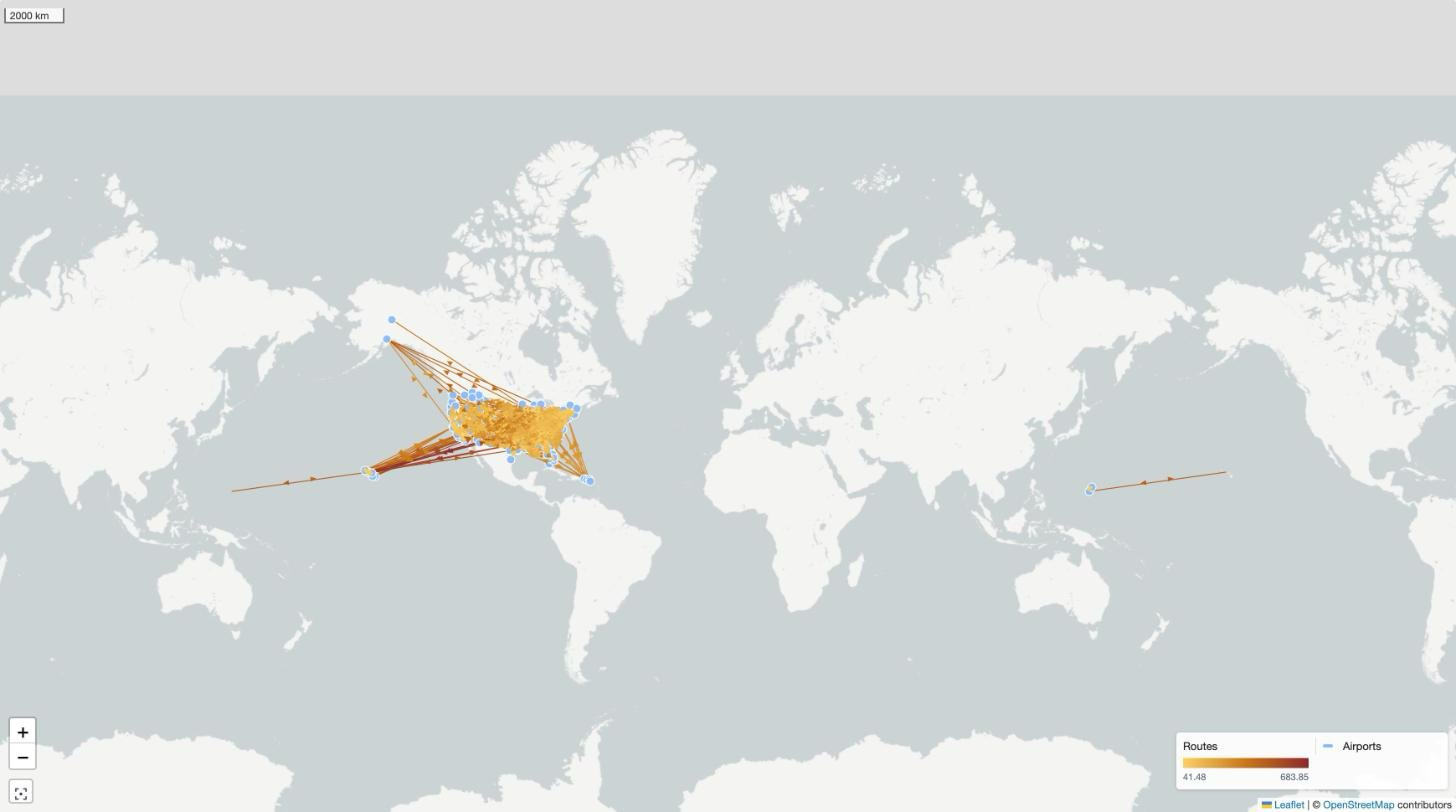
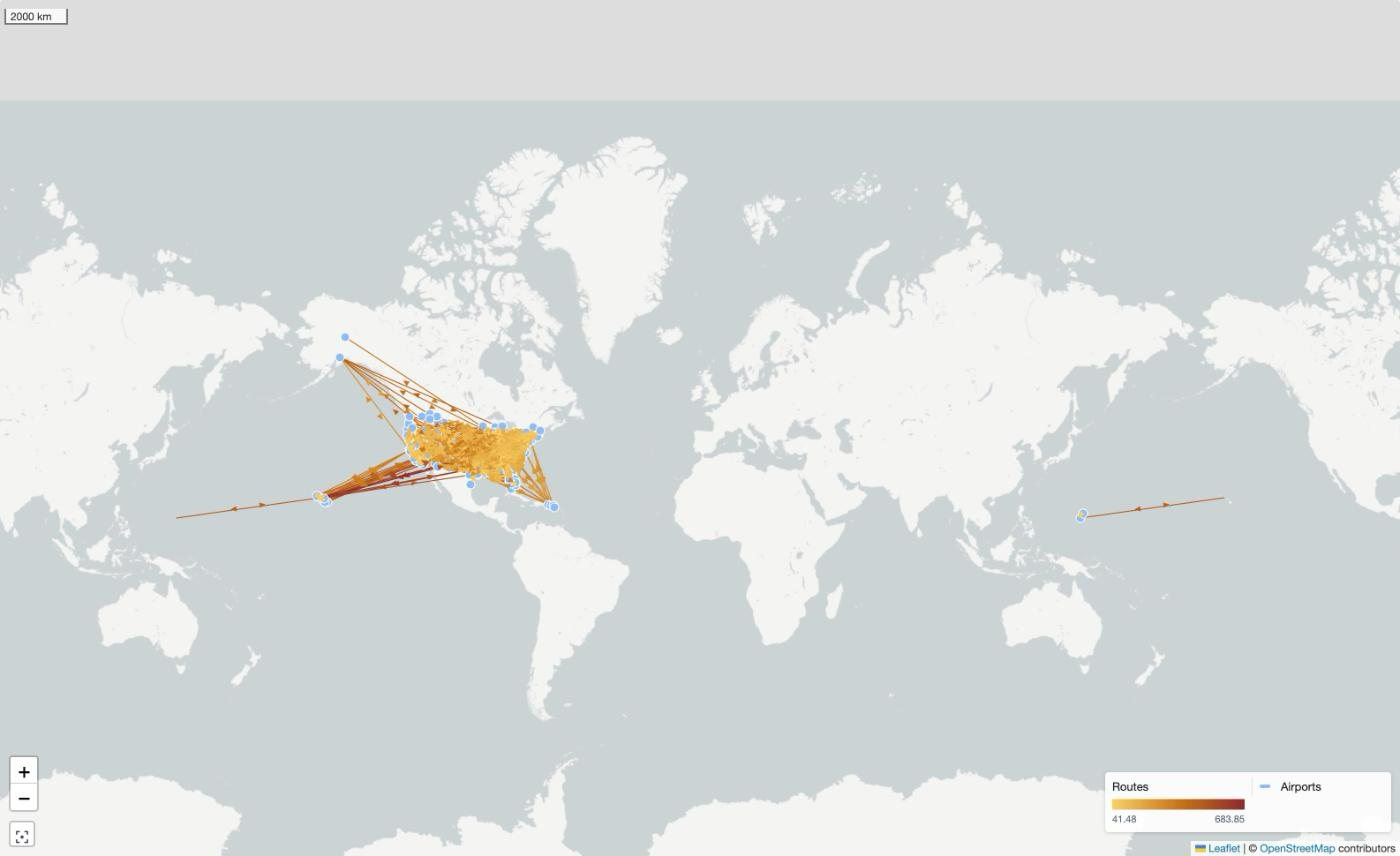
Databricks captures of the latest builds of all 12 aviation apps and all 7 MetroCycle tabs; drop superseded images

diff --git a/index.html b/index.html
@@ -131,31 +131,31 @@ figure { margin: 0; display: flex; flex-direction: column; gap: 8px; min-width: 
 <script>
 const DBX = (id) => "https://" + id + "-8259562314487447.gcp.databricksapps.com";
 const APPS = [
-  { name: "Route Overview", dshot: "route-overview-v10", dapp: "route-overview-v10", short: "Overview", g: "route-overview-v11", dproof: "Verified with open items · 93 of 95 checks passed, 0 failed, 2 not checkable · coverage 87% · 10 random routes · save rehearsals passed", f: "f-route-overview.jpg", dbx: "route-overview-v11",
+  { name: "Route Overview", dshot: "route-overview-v11", dapp: "route-overview-v11", short: "Overview", g: "route-overview-v11", dproof: "Verified with open items · 93 of 95 checks passed, 0 failed, 2 not checkable · coverage 87% · 10 random routes · save rehearsals passed", f: "f-route-overview.jpg", dbx: "route-overview-v11",
     proof: "Verified with open items · 3 runs, 44 random routes · 94 checks, 0 failed · coverage 87%", notes: ["Metric rows with red/green rules, weekly flight volume and the embedded route map", "Alert detail values proven with an alert selected"] },
-  { name: "Route Carriers", dshot: "route-carriers-v11", dapp: "route-carriers-v11", short: "Carriers", g: "route-carriers-v15", dproof: "Verified with open items · 71 of 72 checks passed, 0 failed · coverage 95% · 10 random routes · save rehearsals passed", f: "f-route-carriers.jpg", dbx: "route-carriers-v15",
+  { name: "Route Carriers", dshot: "route-carriers-v14", dapp: "route-carriers-v14", short: "Carriers", g: "route-carriers-v15", dproof: "Verified with open items · 71 of 72 checks passed, 0 failed · coverage 95% · 10 random routes · save rehearsals passed", f: "f-route-carriers.jpg", dbx: "route-carriers-v15",
     proof: "Verified with open items · 0 failed · coverage 95% (37 of 39 widgets)", notes: ["Carrier colours, line gaps, stack order and the “No Value” bar match Foundry", "Carrier Stats is a pivot grid: Endeavor 657 / 1.80 / 125.38 / 1.03"] },
-  { name: "Route Performance", dshot: "route-performance-v11", dapp: "route-performance-v11", short: "Performance", g: "route-performance-v13", dproof: "Verified with open items · 95 of 96 checks passed, 0 failed · coverage 97% · 10 random routes · save rehearsals passed", f: "f-route-performance.jpg", dbx: "route-performance-v13",
+  { name: "Route Performance", dshot: "route-performance-v13", dapp: "route-performance-v13", short: "Performance", g: "route-performance-v13", dproof: "Verified with open items · 95 of 96 checks passed, 0 failed · coverage 97% · 10 random routes · save rehearsals passed", f: "f-route-performance.jpg", dbx: "route-performance-v13",
     proof: "Verified with open items · 11 routes per run · 94 checks, 0 failed · coverage 91%", notes: ["Cohorts 75 vs 919 flights, 0% vs 0.33%, 131.3 vs 128.1 min, 13% vs 17% delayed", "Cohort date filters, Reverse and all chart layers working"] },
-  { name: "Route Alert Inbox", dshot: "route-alert-inbox-v12", dapp: "route-alert-inbox-v12", short: "Alert Inbox", g: "route-alert-inbox-v14", dproof: "Verified with open items · 23 of 23 checks passed · coverage 100% · save rehearsals passed", f: "f-route-alert-inbox.jpg", dbx: "route-alert-inbox-v14",
+  { name: "Route Alert Inbox", dshot: "route-alert-inbox-v14", dapp: "route-alert-inbox-v14", short: "Alert Inbox", g: "route-alert-inbox-v14", dproof: "Verified with open items · 23 of 23 checks passed · coverage 100% · save rehearsals passed", f: "f-route-alert-inbox.jpg", dbx: "route-alert-inbox-v14",
     proof: "Verified with open items · 37 checks, 0 failed · coverage 100% (route detail panel and alert tags now checked)", notes: ["Route detail panel: Foundry's Object View, read from Foundry and drawn with its properties and links", "Alert tags under each route, welcome text and filters checked against Foundry"] },
-  { name: "Ticket with Comments", dshot: "ticket-route-alert-v10", dapp: "ticket-route-alert-v10", short: "Ticket", g: "ticket-route-alert-v11", dproof: "Verified with open items · 31 of 32 checks passed, 0 failed · coverage 85% · 3 of 3 save rehearsals passed (comments, callouts)", f: "f-ticket.jpg", dbx: "ticket-route-alert-v11",
+  { name: "Ticket with Comments", dshot: "ticket-route-alert-v11", dapp: "ticket-route-alert-v11", short: "Ticket", g: "ticket-route-alert-v11", dproof: "Verified with open items · 31 of 32 checks passed, 0 failed · coverage 85% · 3 of 3 save rehearsals passed (comments, callouts)", f: "f-ticket.jpg", dbx: "ticket-route-alert-v11",
     proof: "Verified with open items · 3 runs · 31 checks, 0 failed · coverage 85% · comment and callout saves rehearsed", notes: ["Comments write through an edits table, credited to the signed-in user", "Built straight from the tools, no hand-written queries"] },
-  { name: "Map and Gantt Charts", dshot: "map-and-gantt-v10", dapp: "map-and-gantt-v10", short: "Map & Gantt", g: "map-and-gantt-v11", dproof: "Verified with open items · 46 of 47 checks passed, 0 failed · coverage 94% · 10 random aircraft", f: "f-map-and-gantt.jpg", dbx: "map-and-gantt-v11",
+  { name: "Map and Gantt Charts", dshot: "map-and-gantt-v11", dapp: "map-and-gantt-v11", short: "Map & Gantt", g: "map-and-gantt-v11", dproof: "Verified with open items · 46 of 47 checks passed, 0 failed · coverage 94% · 10 random aircraft", f: "f-map-and-gantt.jpg", dbx: "map-and-gantt-v11",
     proof: "Verified with open items · 0 failed · coverage 94% (15 of 16 widgets)", notes: ["Opens on the saved Dec 20–21 window with Foundry’s six Gantt bars", "Flight history table sorted and paged"] },
-  { name: "Flights Map", dshot: "flights-map-v11", dapp: "flights-map-v11", short: "Flights Map", g: "flights-map-v12", dproof: "Verified with open items · 18 of 19 checks passed, 0 failed · coverage 93%", f: "f-flights-map.jpg", dbx: "flights-map-v12",
+  { name: "Flights Map", dshot: "flights-map-v12", dapp: "flights-map-v12", short: "Flights Map", g: "flights-map-v12", dproof: "Verified with open items · 18 of 19 checks passed, 0 failed · coverage 93%", f: "f-flights-map.jpg", dbx: "flights-map-v12",
     proof: "Verified with open items · 33 checks, 0 failed · coverage 93%", notes: ["Search bar, route-volume labels and gradient map legend match Foundry", "Not rebuilt: the runways layer"] },
-  { name: "Common Operating Picture", dshot: "common-operating-picture-v11", dapp: "common-operating-picture-v11", short: "Op. Picture", g: "common-operating-picture-v13", dproof: "Verified with open items · 25 of 25 checks passed · coverage 88% · no saves to rehearse", f: "f-cop.jpg", dbx: "common-operating-picture-v13",
+  { name: "Common Operating Picture", dshot: "common-operating-picture-v13", dapp: "common-operating-picture-v13", short: "Op. Picture", g: "common-operating-picture-v13", dproof: "Verified with open items · 25 of 25 checks passed · coverage 88% · no saves to rehearse", f: "f-cop.jpg", dbx: "common-operating-picture-v13",
     proof: "Verified with open items · 3 runs · 24 checks, 0 failed · coverage 88% (greeting, carrier filter counts and histogram now checked)", notes: ["Totals 1,659,326 / 19,488 / 1.17% / 3,605 / 0.22% match", "Carrier facet counts and cluster map match Foundry"] },
-  { name: "Embedded Module · Airport", dshot: "embedded-airport-v11", dapp: "embedded-airport-v11", short: "Airport", g: "embedded-airport-v12", dproof: "Verified with open items · 50 of 52 checks passed, 0 failed · coverage 88% · 11 airports", f: "f-airport.jpg", dbx: "embedded-airport-v12",
+  { name: "Embedded Module · Airport", dshot: "embedded-airport-v12", dapp: "embedded-airport-v12", short: "Airport", g: "embedded-airport-v12", dproof: "Verified with open items · 50 of 52 checks passed, 0 failed · coverage 88% · 11 airports", f: "f-airport.jpg", dbx: "embedded-airport-v12",
     proof: "Verified with open items · 42 checks, 0 failed · coverage 88%", notes: ["The whole embedded Flights Map drawn in place, filtered to the airport", "Bound airport shown as the pre-filled filter pill, as in Foundry"] },
   { name: "Map-Centric Module", dshot: "map-centric-v10", dapp: "map-centric-v10", short: "Map-Centric", g: "map-centric-v10", dproof: "Verified with open items · 0 failed · coverage 100% · no saves to rehearse", f: "f-map-centric.jpg", dbx: "map-centric-v10",
     proof: "Verified · coverage 100% · every airport, route, key and coordinate matches", notes: ["Airports and route lines over the full map", "Opening state (all airports, all routes) proven"] },
-  { name: "Learn More Overlay", dshot: "learn-more-overlay-v9", dapp: "genesis-learn-more-overlay-v9", short: "Learn More", sub: "Reusable pop-up module, shown here on its own", g: "learn-more-overlay-v9", dproof: "Verified · 0 failed · coverage 100% · save rehearsals passed", f: "f-learn-more.jpg", dbx: "genesis-learn-more-overlay-v9",
+  { name: "Learn More Overlay", dshot: "genesis-learn-more-overlay-v9", dapp: "genesis-learn-more-overlay-v9", short: "Learn More", sub: "Reusable pop-up module, shown here on its own", g: "learn-more-overlay-v9", dproof: "Verified · 0 failed · coverage 100% · save rehearsals passed", f: "f-learn-more.jpg", dbx: "genesis-learn-more-overlay-v9",
     proof: "Verified · every check passed · 0 failed", notes: ["Not a standalone app: a reusable pop-up that other apps (Flights Map, Ticket, Airport) open from their “How it works” buttons, so in Foundry too it is just a titled text panel", "The rebuilt apps open this same module as their pop-up; its explainer text is editable, with edits credited to the signed-in user"] },
-  { name: "Reference Foundation Landing Page", dshot: "reference-landing-v12", dapp: "reference-landing-v12", short: "Reference", g: "reference-landing-v13", dproof: "Verified with open items · 7 of 7 checks passed · coverage 100% · the embedded Route Alert Inbox proved at its own address", f: "f-reference.jpg", dbx: "reference-landing-v13",
+  { name: "Reference Foundation Landing Page", dshot: "reference-landing-v13", dapp: "reference-landing-v13", short: "Reference", g: "reference-landing-v13", dproof: "Verified with open items · 7 of 7 checks passed · coverage 100% · the embedded Route Alert Inbox proved at its own address", f: "f-reference.jpg", dbx: "reference-landing-v13",
     proof: "Verified with open items · coverage 100% (20 of 20 widgets) · both Notepad documents and the embedded inbox match Foundry", notes: ["The Foundation Data Index and Reference Example Index Notepad documents read from Foundry, lineage diagram included", "The Example Application tab embeds the migrated Route Alert Inbox"] },
-  { name: "MetroCycle", section: "MetroCycle", short: "MetroCycle", status: "Not verified: data differences", gap: true, g: "metrocycle-v6--fleet", gviews: [["Home","metrocycle-v6--home"],["Fleet","metrocycle-v6--fleet"],["Maintenance","metrocycle-v6--maintenance"],["Transport","metrocycle-v6--transport"],["Employees","metrocycle-v6--employees"],["Financials","metrocycle-v6--financials"],["Map","metrocycle-v6--map"]], dbx: "metrocycle-v6",
+  { name: "MetroCycle", section: "MetroCycle", short: "MetroCycle", dshot: "metrocycle-v6--fleet", dapp: "metrocycle-v6", dviews: [["Home","metrocycle-v6--home"],["Fleet","metrocycle-v6--fleet"],["Maintenance","metrocycle-v6--maintenance"],["Transport","metrocycle-v6--transport"],["Employees","metrocycle-v6--employees"],["Financials","metrocycle-v6--financials"],["Map","metrocycle-v6--map"]], status: "Not verified: data differences", gap: true, g: "metrocycle-v6--fleet", gviews: [["Home","metrocycle-v6--home"],["Fleet","metrocycle-v6--fleet"],["Maintenance","metrocycle-v6--maintenance"],["Transport","metrocycle-v6--transport"],["Employees","metrocycle-v6--employees"],["Financials","metrocycle-v6--financials"],["Map","metrocycle-v6--map"]], dbx: "metrocycle-v6",
     dproof: "Not verified · 103 of 110 checks passed · 3 failed, all traced to the migrated data, none to the app · 4 save buttons not reached · coverage 78% (80% needed) · 5 of 5 save rehearsals passed, in a scratch schema only",
     proof: "Rendered page matched on every sampled input · all 32 text and button checks matched · the embedded Vision Models module matched at its own address", notes: ["A bike-share operations app from a Foundry Marketplace product: seven tabs over 13,446 bikes, work orders, dispatch, timecards and finances", "Work-order and bike-move saves run as the signed-in user, written to an edits table", "The 3 failures are data, by decision: bike locations follow the data migration’s last-location rule, timecard IDs are random on every build, and 4 of 50 bike media references differ", "Not rebuilt: the Quiver ride dashboard. Its Work Order Summary asks Claude Haiku 4.5 on Databricks in place of Foundry’s AIP Logic"] },
   { name: "Vision Models", section: "MetroCycle", short: "Vision", status: "Matches where comparable", gap: true, dshot: "vision-models-v4", dapp: "vision-models-v4", g: "vision-models-v4", dbx: "vision-models-v4", sub: "Ask a question about a bike photo; embedded in MetroCycle",
@@ -214,9 +214,11 @@ function app(i) {
     right.append(el("a", { class: "shot", href: "img/g-" + gk + ".jpg", target: "_blank", rel: "noopener" }, el("img", { src: "img/g-" + gk + ".jpg", alt: a.name + " rebuilt as a Genesis app", loading: "lazy" })));
   } else if (a.dshot) {
     const url = DBX(a.dapp || a.dshot);
+    const dk = a.dviews ? a.dviews[gv][1] : a.dshot;
+    if (a.dviews) { const ds = el("div", { class: "gviews", role: "group", "aria-label": "Tab" }); a.dviews.forEach(([t], j) => { const b = el("button", { type: "button", "aria-pressed": String(j === gv), text: t }); b.onclick = () => { gv = j; render(); }; ds.append(b); }); right.append(ds); }
     const frame = el("div", { class: "dframe" });
     const bar = el("div", { class: "dbar" }, el("span", { class: "ddot", "aria-hidden": "true" }), el("a", { class: "durl", href: url, target: "_blank", rel: "noopener", text: url.replace("https://", "") }));
-    frame.append(bar, el("a", { class: "dimg", href: "img/dbx/" + a.dshot + ".jpg", target: "_blank", rel: "noopener" }, el("img", { src: "img/dbx/" + a.dshot + ".jpg", alt: a.name + " running as a Databricks App", loading: "lazy" })));
+    frame.append(bar, el("a", { class: "dimg", href: "img/dbx/" + dk + ".jpg", target: "_blank", rel: "noopener" }, el("img", { src: "img/dbx/" + dk + ".jpg", alt: a.name + " running as a Databricks App", loading: "lazy" })));
     right.append(frame);
     const note = (a.dapp || a.dshot) === a.dbx ? "Captured from a signed-in browser at this Databricks App address." : "Captured from a signed-in browser at this address, before Eve’s latest rebuild. The rebuilt app is deployed at " + DBX(a.dbx).replace("https://", "") + "; its screenshot is coming.";
     right.append(el("p", { class: "foot", text: note }));
